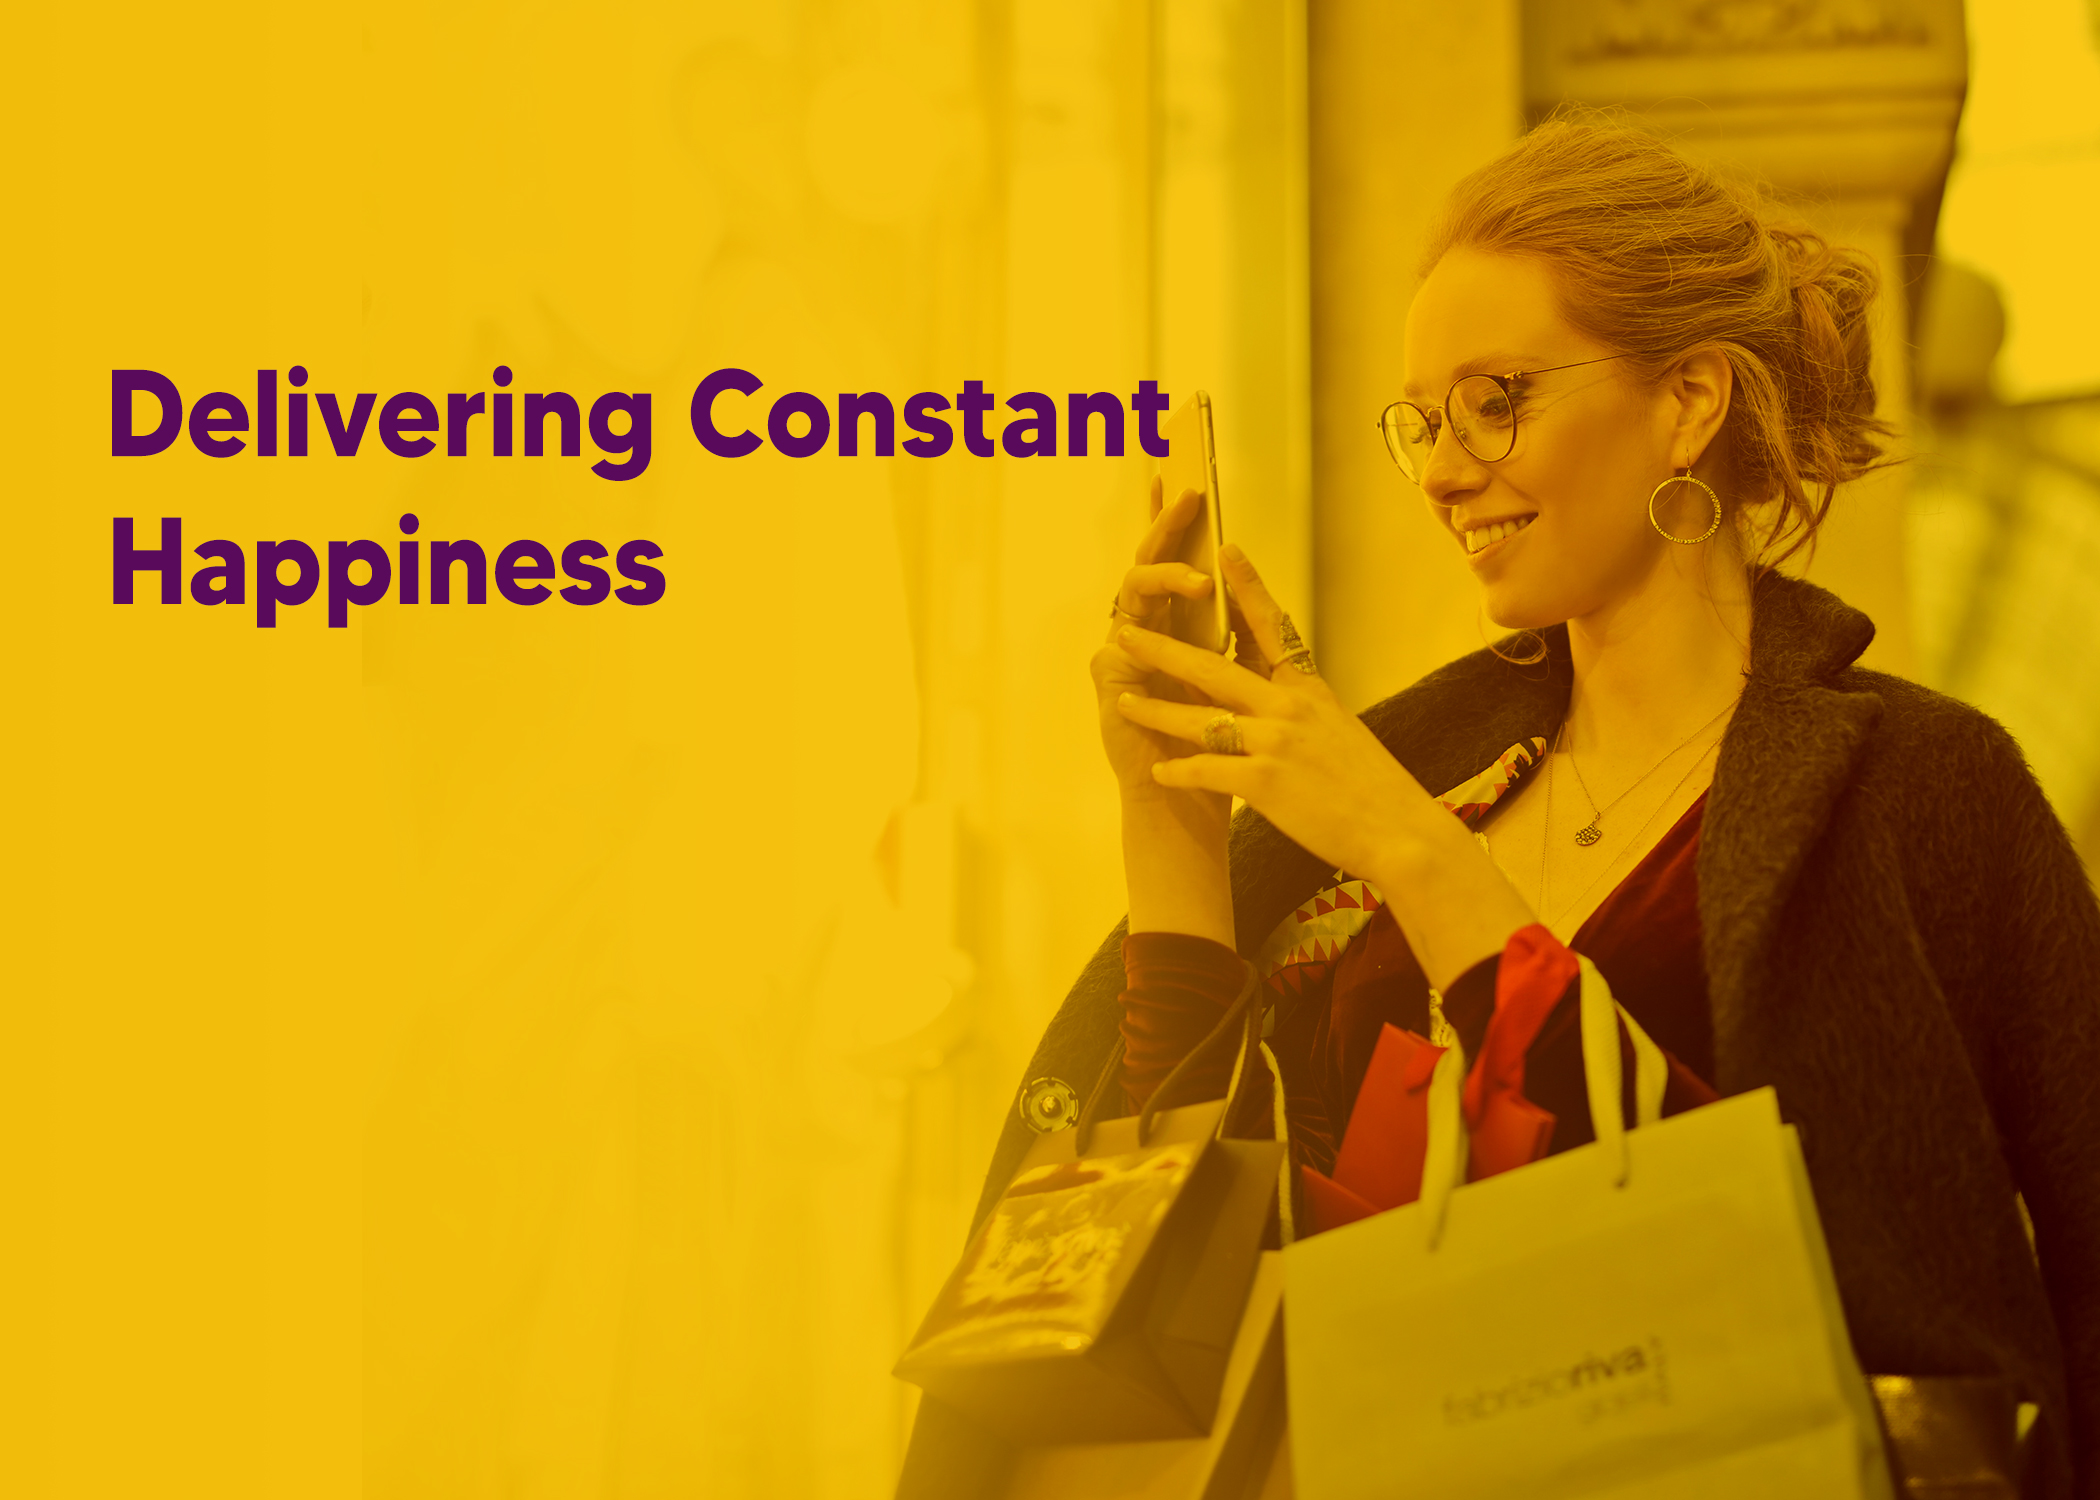
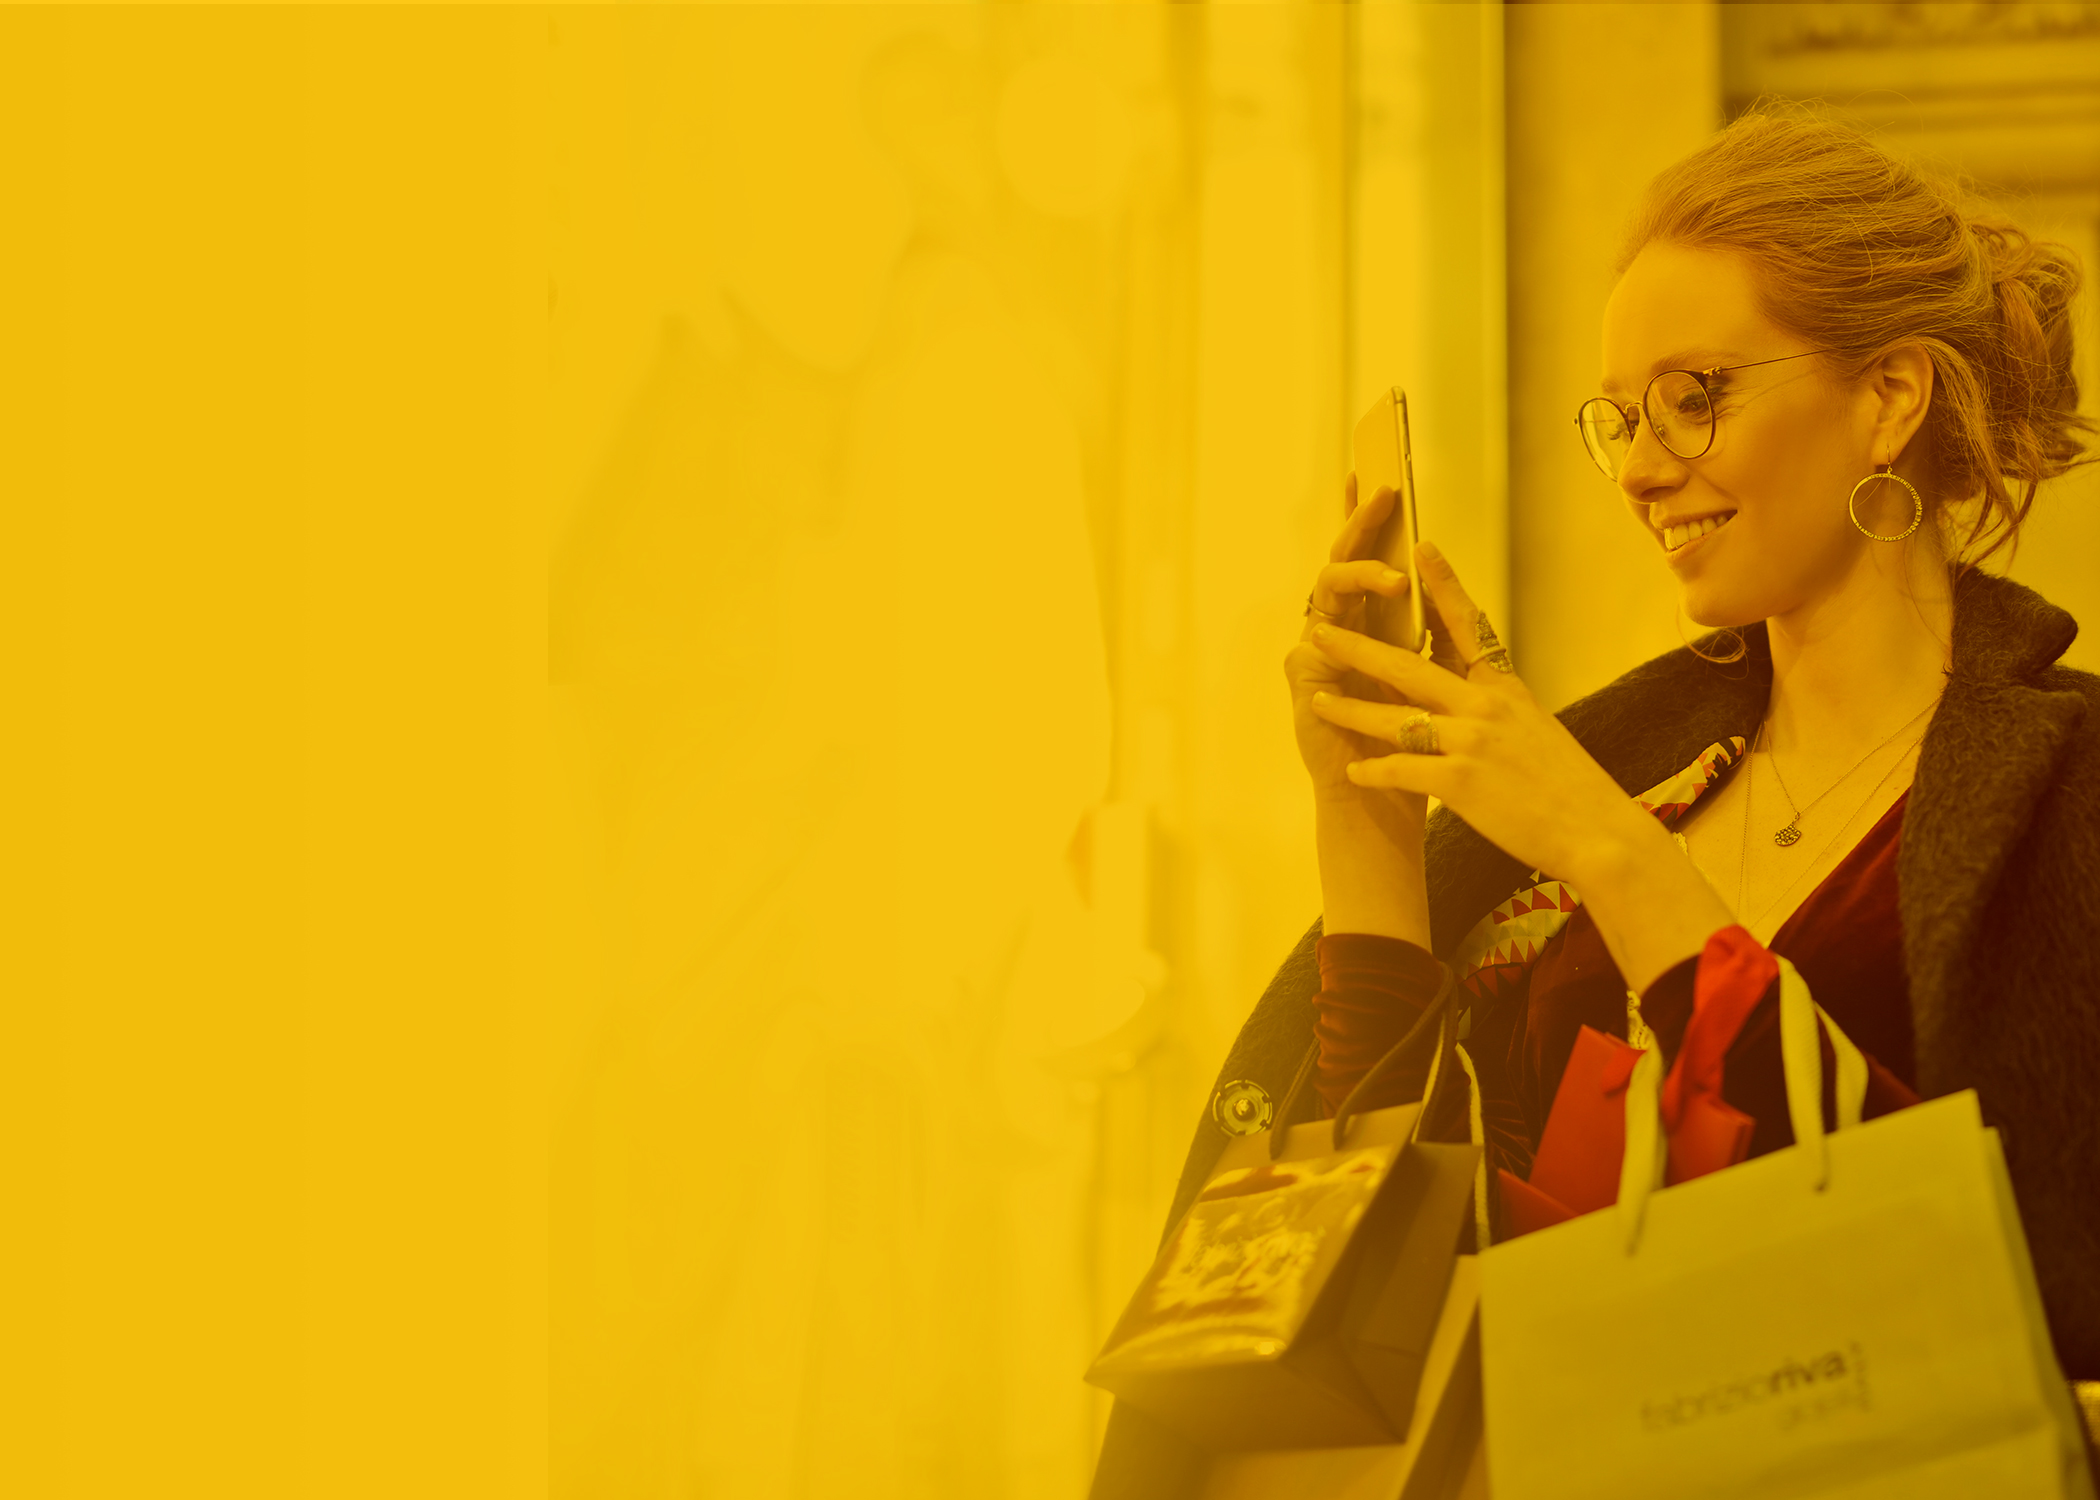
Mobile home

diff --git a/src/components/UserLayout/UserWebLayout.styled.tsx b/src/components/UserLayout/UserWebLayout.styled.tsx
@@ -12,21 +12,17 @@ export const HomeBannerContainer = styled.div`
     .welcome {
         position: relative;
         transition: ease all 0.5s;
-        padding: 2rem 8rem;
-        margin-top: 12rem;
-        top: 80%;
+        padding: 6rem 0 2rem 5rem;
+        //margin-top: 12rem;
+        //top: 80%;
         font-family: 'Made Tommy', sans-serif;
         h3 {
-            color: var(--white-color);
-            text-transform: uppercase;
+            color: var(--background-color);
+            //text-transform: uppercase;
             font-size: 6.5rem;
             margin-bottom: 0;
-            font-weight: bold;
-        }
-        h4 {
-            color: var(--white-color);
-            font-size: 4rem;
-            font-weight: lighter;
+            font-weight: bolder;
+            text-shadow: 0 4px 4px rgba(0, 0, 0, 0.3);
         }
         .btn-shop {
             display: flex;
@@ -53,6 +49,14 @@ export const HomeBannerContainer = styled.div`
                 box-shadow: none;
                 color: var(--white-color);
                 //padding: 10px 4.5rem;
+            }
+        }
+    }
+    @media (max-width: 768px) {
+        .welcome {
+            padding: 12rem 0 1rem 3rem;
+            h3 {
+                font-size: 5.5rem;
             }
         }
     }

diff --git a/src/components/WelcomePage/index.tsx b/src/components/WelcomePage/index.tsx
@@ -18,9 +18,9 @@ const WelcomePage = () => {
                 <HomeBannerContainer data-aos="zoom-in">
                     <Row gutter={24}>
                         <Col xs={24} xl={12} lg={12}>
-                            <div className="welcome" data-aos="fade-left" data-aos-delay="800">
-                                {/*<h3>Delivering</h3>*/}
-                                {/*<h4>constant happiness</h4>*/}
+                            <div className="welcome">
+                                <h3>Delivering Constant</h3>
+                                <h3>Happiness</h3>
 
                                 <Button
                                     data-aos="flip-down"
